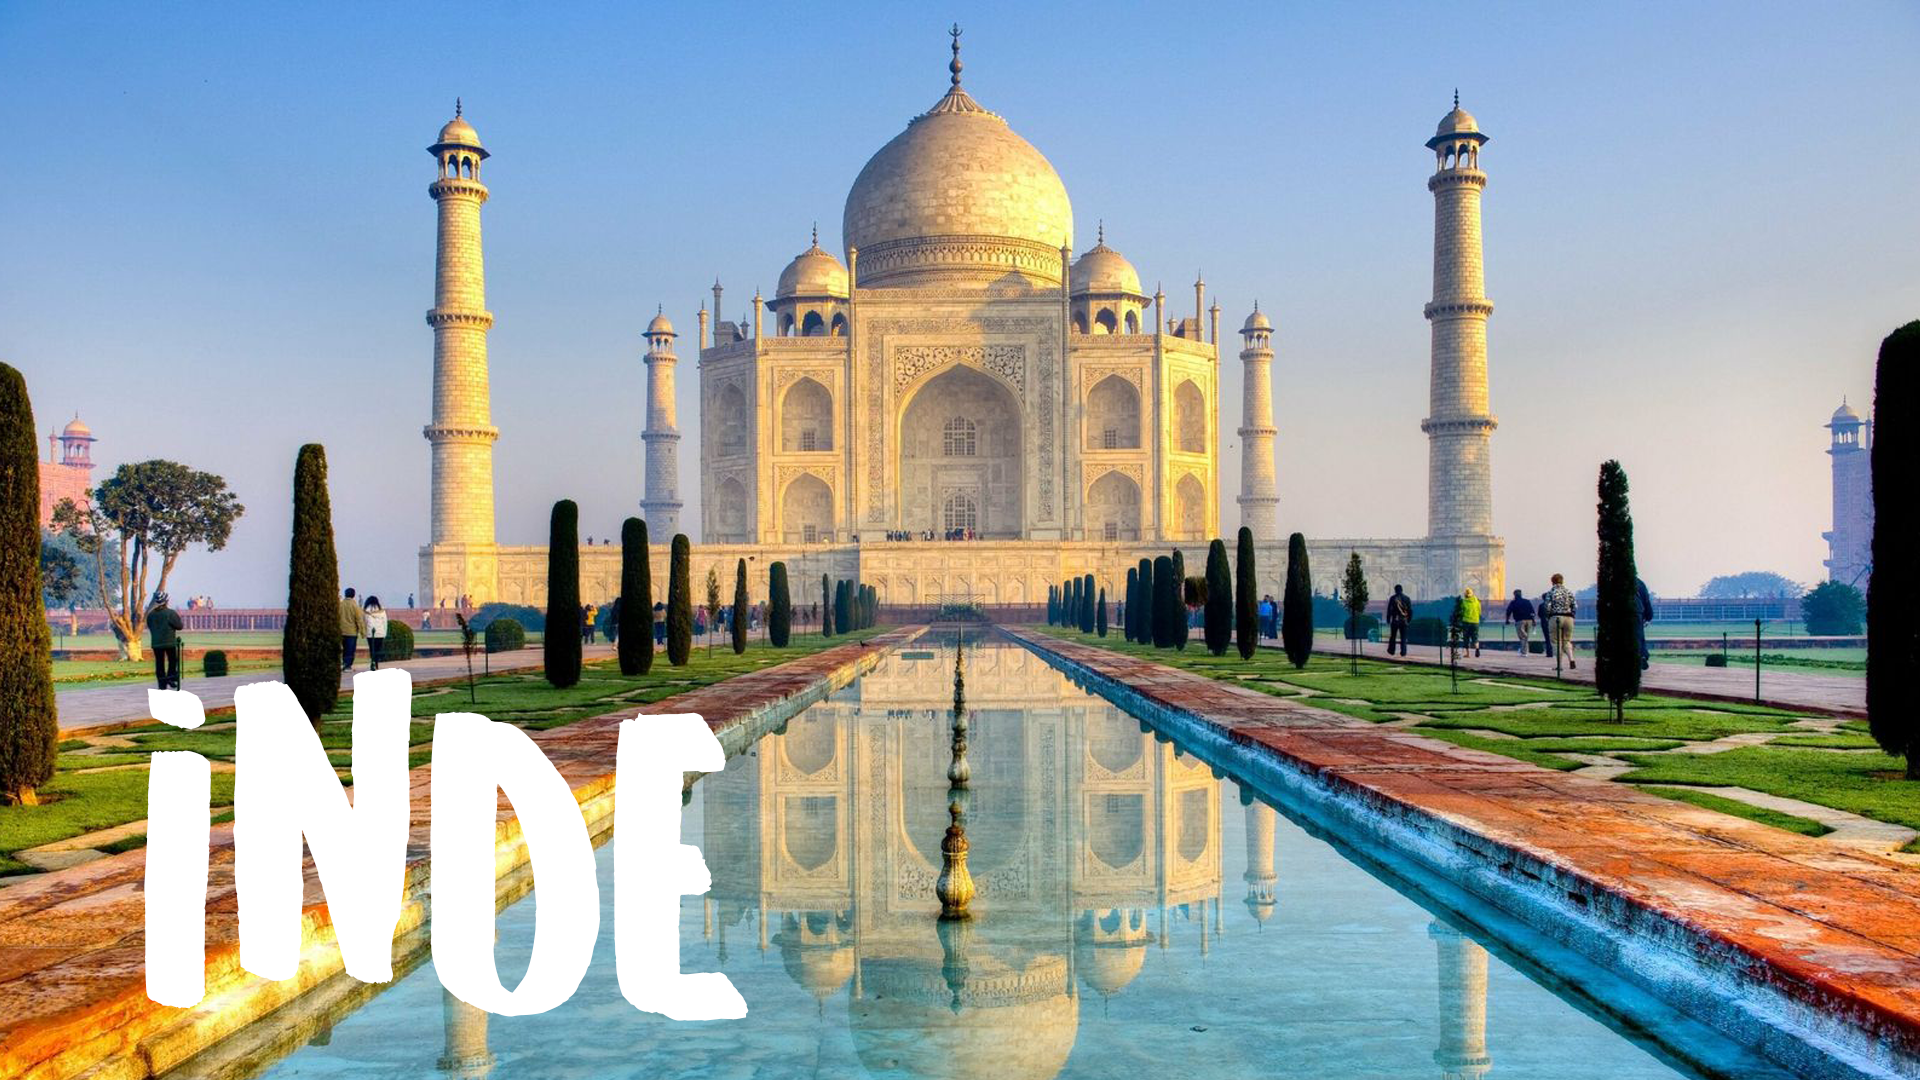
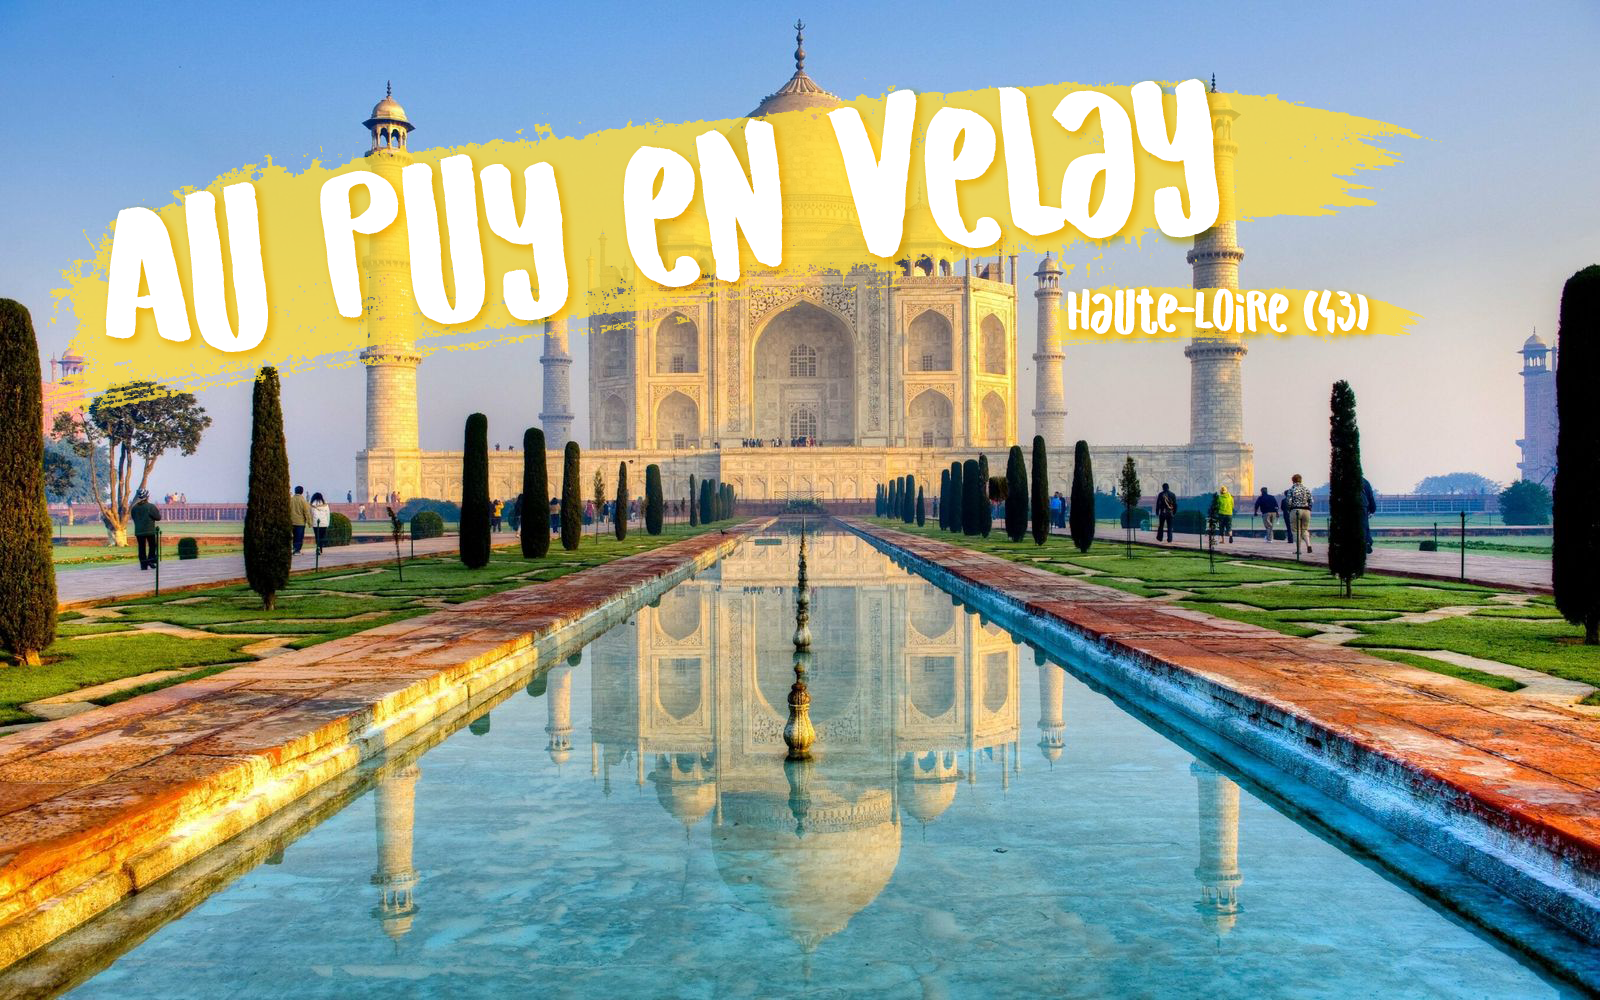
accueil final
page d'accueil terminé

diff --git a/WebWeek/css/style.css b/WebWeek/css/style.css
@@ -2,6 +2,7 @@
 @import url('https://fonts.googleapis.com/css2?family=Poppins:wght@100&display=swap');
 @import url('https://fonts.googleapis.com/css2?family=Montserrat&display=swap');
 
+
 * {
     margin: 0;
     padding: 0;
@@ -150,27 +151,19 @@ h1::after {
 
 
   @import url('https://fonts.googleapis.com/css2?family=Poppins:wght@300;400;500;600;700&display=swap');
-
-
-/*titre*/
-.titre{
-  text-align: center;
-  display:flex;
-  margin:auto;
-  align-items: center;
-  flex-direction: column;
-  font-size: xx-large;
+.test5{
+  background-color: #f6f4e6;
 }
 /*caroussel*/
 
 .caroussel{
-  width: 1250px;
+  width: 1260px;
   position: absolute;
   transform: translate(-50%,-50%);
-  top: 61%;
+  top: 56%;
   left: 50%;
   overflow: hidden;
-  border: 10px solid #ffffff;
+  border: 10px solid #f6f4e6;
   border-radius: 8px;
   box-shadow: -1px 5px 15px black;
 }
@@ -221,7 +214,8 @@ img{
   font-family: 'Montserrat', sans-serif;
   align-items: center;
   height: 50%;
-  margin-top: 800px;
+  margin-top: 750px;
+  background-color:#f6f4e6;
 
 }
 
@@ -244,6 +238,7 @@ img{
   #fddb3a, transparent 50%);
   border-image-slice: 1;
   padding-top: 50px;
+  background-color: #f6f4e6;
 }
 
 .item4 h1{
@@ -296,7 +291,6 @@ img{
 
 .concert2{
   display:flex;
-  background-color: white;
   color: black;
   margin:auto;
   align-items: center;
@@ -307,7 +301,6 @@ img{
 }
 
 .flex-reserver{
-  background-color: white;
   display: flex;
   justify-content: space-around;
   margin: auto;
@@ -329,7 +322,7 @@ img{
 .reserver:hover {
   background-color: #24262b;
   border-color: #fddb3a ;
-  color:white;
+  color:#f6f4e6;
   border-style : solid;
   border-width : 2px;
 }
@@ -339,7 +332,7 @@ img{
   margin-top: 10px;
   margin-left: 60px;
   margin-right: 50px;
-  color: white;
+  color: #f6f4e6;
   font-size: 20px;
 }
 
@@ -365,7 +358,7 @@ img{
 
 .more:hover {
   background-color: #24262b;
-  color: white;
+  color: #f6f4e6;
   border-color: #fddb3a ;
   border-style : solid;
   border-width : 2px;
@@ -373,7 +366,7 @@ img{
 
 .item4{
   background-color: #24262b;
-  color: white;
+  color: #f6f4e6;
   padding: 25px;
   text-align : justify;
   padding-left: 100px;
@@ -385,6 +378,9 @@ img{
   padding-right: 100px;
 }
 .item3 img{
+  width: 300px;
+}
+.item5 img{
   width: 300px;
 }
 
@@ -401,7 +397,7 @@ img{
 .container4{
   justify-content: center;
   background-color: #24262b;
-  color:white;
+  color:#f6f4e6;
   align-items: center;
   font-size: 20px;
   margin:auto;
@@ -412,7 +408,7 @@ img{
 .lieu2{
   display:flex;
   background-color: #24262b;
-  color: white;
+  color: #f6f4e6;
   margin:auto;
   align-items: center;
   flex-direction: column;
@@ -426,15 +422,17 @@ img{
   padding-top: 50px;
 }
 .container5{
+  margin: 30px;
   flex-direction: column;
   align-items: center;
   font-size: xx-large;
   gap: 30px;
-  margin-top: 100px;
+  padding-top: 60px;
   }
 
-.part img{
-    max-width: 200px;
+  .part img{
+    max-width: 9vw;
+    height: auto;
     margin: 30px;
   }
 
@@ -470,7 +468,7 @@ ul{
 }
 .footer-col h4{
   font-size: 18px;
-  color: #ffffff;
+  color: #f6f4e6;
   text-transform: capitalize;
   margin-bottom: 35px;
   font-weight: 500;
@@ -492,7 +490,7 @@ ul{
 .footer-col ul li a{
   font-size: 16px;
   text-transform: capitalize;
-  color: #ffffff;
+  color: #f6f4e6;
   text-decoration: none;
   font-weight: 300;
   color: #bbbbbb;
@@ -500,7 +498,7 @@ ul{
   transition: all 0.3s ease;
 }
 .footer-col ul li a:hover{
-  color: #ffffff;
+  color: #f6f4e6;
   padding-left: 8px;
 }
 .footer-col .social-links a{
@@ -512,12 +510,12 @@ ul{
   text-align: center;
   line-height: 40px;
   border-radius: 50%;
-  color: #ffffff;
+  color: #f6f4e6;
   transition: all 0.5s ease;
 }
 .footer-col .social-links a:hover{
   color: #24262b;
-  background-color: #ffffff;
+  background-color: #f6f4e6;
 }
 
 /*responsive*/

diff --git a/WebWeek/index.html b/WebWeek/index.html
@@ -6,6 +6,7 @@
 </head>
 
 <body>
+<div class="test5">
   <nav class="navbar">
     <!-- LOGO -->
     <div class="logo"><img src="images/logo2.png" alt=""></div>
@@ -21,10 +22,6 @@
       <div class="dot"></div>
     </div>
   </nav>
-<div class="titre">
-  <h5>Le Puy du Monde</h5>
-  <h5>Un festival multiculturel !</h5>
-</div>
   <!--caroussel-->
 
 <div class="caroussel">
@@ -38,9 +35,9 @@
   </div>
 
   <div class="container">
-    <div class="item1"><img src="images/logo.png" alt=""></div>
+    <div class="item1"><img src="images/logo3.png" alt=""></div>
     <div class="item2"> Venez découvrir le nouvel évènement du Puy-En-Velay : Le Puy du Monde du vendredi 21 avril au
-      dimache 23 ! <br>
+      dimanche 23 ! <br>
       Cuisine, Costumes, Musiques, Danses, Défilé, Activités et bien d'autres surprises vous attendent dans toute la
       ville sur le thème du Japon, Mexique, Inde et Egypte. <br>
       Parcourez la ville pour découvrir les quatres pôles des différents pays et découvrir leur culture. <br>
@@ -181,16 +178,16 @@
   <div class="button">
   <input class="more" type="button" value="Comment venir ? ">
 </div>
-  <div class="container container5">
-    <h1>Partenaires</h1>
-    <div class="part">
-    <img src="images/agglo.jpg" alt="">
-    <img src="images/AURA.png" alt="">
-    <img src="images/bp.png" alt="">
-    <img src="images/oep.png" alt="">
-    <img src="images/assojap.png" alt="">
-  </div>
-  </div>
+<div class="container container5">
+  <h1>Partenaires</h1>
+  <div class="part">
+  <img src="images/agglo.jpg" alt="">
+  <img src="images/AURA.png" alt="">
+  <img src="images/bp.png" alt="">
+  <img src="images/oep.png" alt="">
+  <img src="images/assojap.png" alt="">
+</div>
+</div>
 
 
 </body>
@@ -221,10 +218,11 @@
         </ul>
       </div>
       <div class="footer-col">
-        <img class="logofooter" src="images/logo300px.png" alt="">
+        <img class="logofooter" src="images/logo2.png" alt="">
       </div>
     </div>
   </div>
+</div>
 </footer>
 
 </html>
